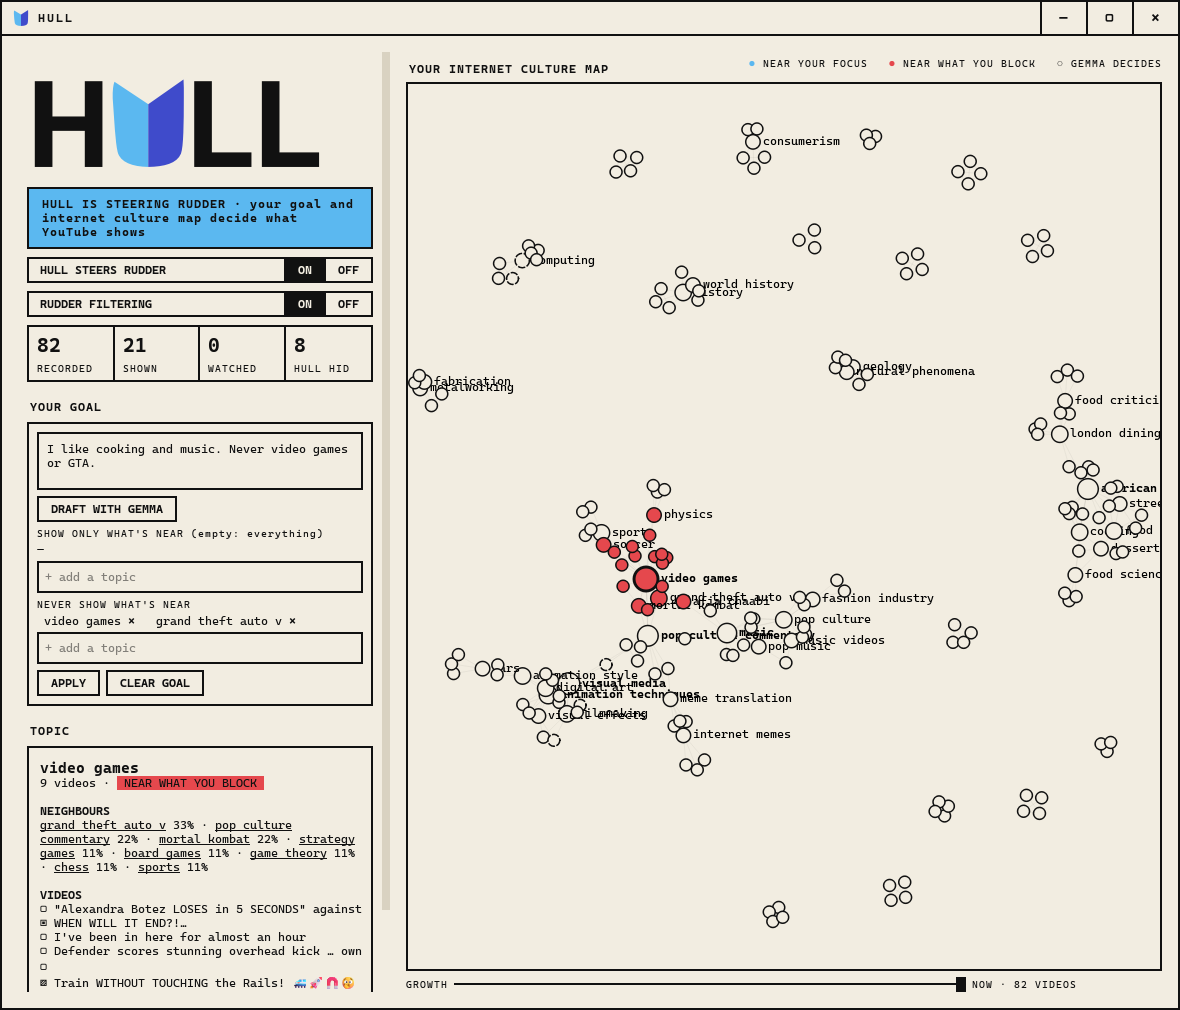
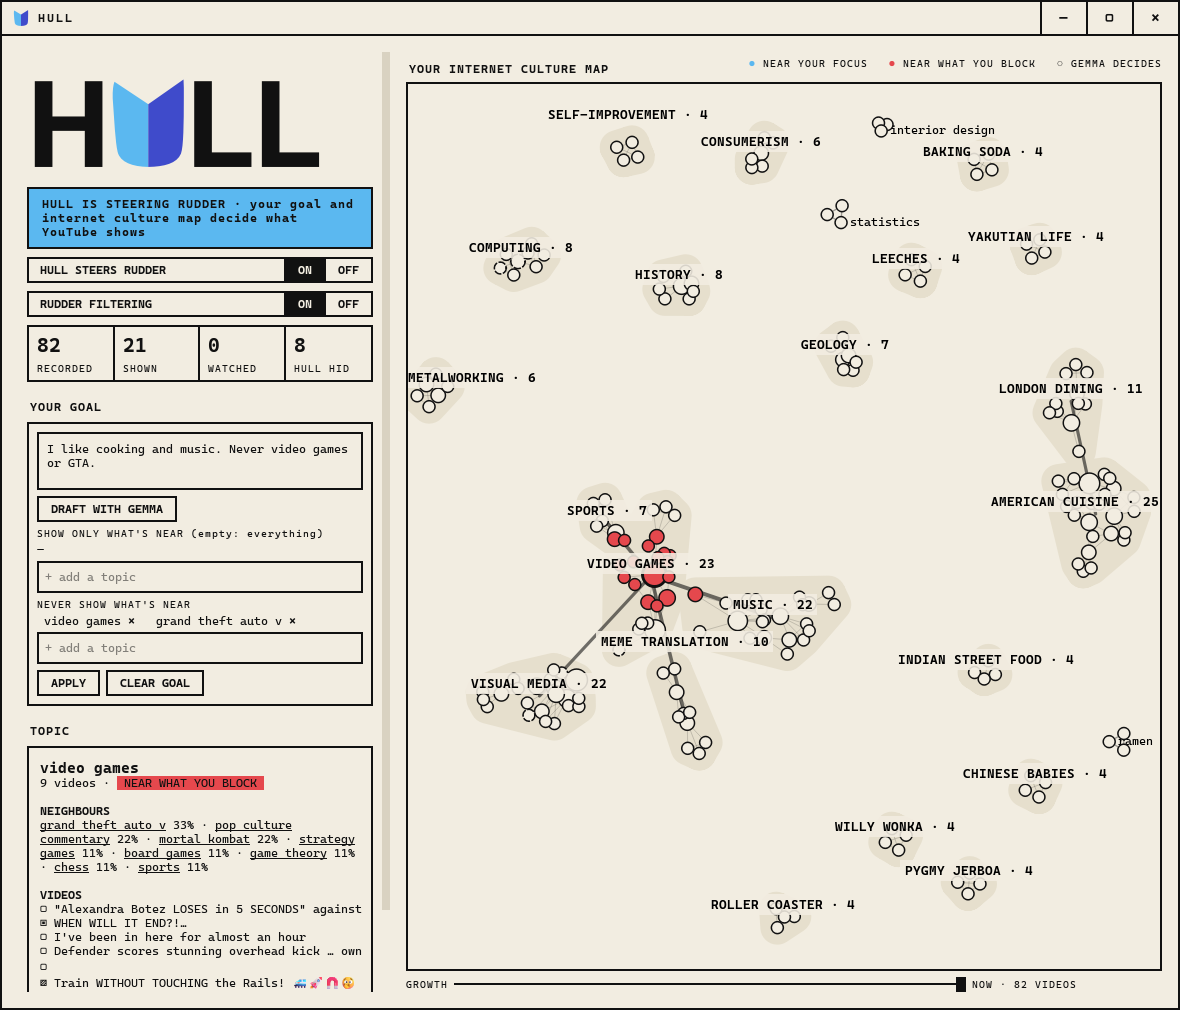
Map reads at every zoom: Louvain themes with shaded shapes and one name each while small on screen, names only where they have room, lines that keep their width, one line between closed themes and every line once a theme opens

diff --git a/hull/mapview.py b/hull/mapview.py
@@ -1,16 +1,30 @@
-"""The internet culture map: your internet culture graph drawn as a map. A dot per topic, as big as the number of videos you've seen on
-it; a line between topics that share videos. Where a topic sits comes from its meaning (its embedding, flattened to
-two dimensions) pulled together with its neighbours (a force layout), so related internet culture clusters on its own.
-Colour says what your goal does with it: blue near your focus, red near what you block, dashed where Gemma decides."""
+"""The internet culture map: your internet culture graph drawn as a map. A dot per topic, as big as the number of
+videos you've seen on it; a line between topics that share videos. Where a topic sits comes from its meaning (its
+embedding, flattened to two dimensions) pulled together with its neighbours and its community (a force layout).
+Colour says what your goal does with it: blue near your focus, red near what you block, dashed where Gemma decides.
+
+It reads at every zoom (apply_detail, on every zoom, pan and resize):
+  - Communities (topics more linked to each other than to the rest) get a shaded shape around them. While a community
+    is small on screen it shows one name, its most-seen topic, and its inside lines go faint; zoomed in, its topics'
+    names come out.
+  - A name is drawn only where it has room: names are placed most-seen first, and one that would touch a name
+    already placed waits until zooming spreads them apart. Every dot is always drawn, and hovering shows its name.
+  - Lines keep their width on screen. Between two communities that are both small on screen, all the lines become
+    one, thicker the more videos they share; once either opens, its own lines come back.
+"""
 import math
 
 import numpy as np
 from PySide6.QtCore import QPointF, QRectF, Qt, Signal
-from PySide6.QtGui import QBrush, QColor, QFont, QPainter, QPen
-from PySide6.QtWidgets import QGraphicsEllipseItem, QGraphicsItem, QGraphicsScene, QGraphicsSimpleTextItem, QGraphicsView
+from PySide6.QtGui import QBrush, QColor, QFont, QFontMetricsF, QPainter, QPainterPath, QPen, QPolygonF
+from PySide6.QtWidgets import (QGraphicsEllipseItem, QGraphicsItem, QGraphicsLineItem, QGraphicsPathItem, QGraphicsRectItem,
+                               QGraphicsScene, QGraphicsSimpleTextItem, QGraphicsView)
 
 PAPER, INK, FAINT, BLUE, RED = "#f2ede1", "#111111", "#d9d2c1", "#5BB8F0", "#E5484D"
+SHADE = "#e6dfcd"  # inside a community's shape
 MOST = 300  # topics drawn: the most-seen ones
+OPEN_PX = 260  # a community opens (its topics' names come out) once it's this big on screen
+GAP = 4  # px kept between names
 
 
 def flatten(vecs):
@@ -23,15 +37,70 @@ def flatten(vecs):
     return p / (np.abs(p).max(0) + 1e-9)
 
 
-def layout(start, edges, iters=120):
+def communities(n, edges, counts=None, resolution=1.0):
+    """the map's themes: groups of topics more linked to each other than to the rest (Louvain: move each topic to the
+    group that raises modularity most, then treat each group as one topic and repeat, so small groups merge into
+    themes like music, gaming, food). counts is unused, kept for callers."""
+    part = list(range(n))  # topic → its group
+    nodes, links = n, {}
+    for i, j, w in edges:
+        if i != j:
+            links[(i, j)] = links.get((i, j), 0) + w
+    while True:
+        nb = [dict() for _ in range(nodes)]
+        loops = [0.0] * nodes
+        for (i, j), w in links.items():
+            if i == j:
+                loops[i] += w
+            else:
+                nb[i][j] = nb[i].get(j, 0) + w
+                nb[j][i] = nb[j].get(i, 0) + w
+        k = [sum(d.values()) + 2 * loops[i] for i, d in enumerate(nb)]
+        m2 = sum(k)
+        if not m2:
+            break
+        comm, tot = list(range(nodes)), k[:]
+        moved = True
+        while moved:
+            moved = False
+            for i in sorted(range(nodes), key=lambda i: -k[i]):
+                c0 = comm[i]
+                tot[c0] -= k[i]
+                into = {}
+                for j, w in nb[i].items():
+                    into[comm[j]] = into.get(comm[j], 0) + w
+                best, gain = c0, into.get(c0, 0) - resolution * tot[c0] * k[i] / m2
+                for c, w in into.items():
+                    g = w - resolution * tot[c] * k[i] / m2
+                    if g > gain + 1e-12:
+                        best, gain = c, g
+                comm[i] = best
+                tot[best] += k[i]
+                moved |= best != c0
+        ids = {c: x for x, c in enumerate(dict.fromkeys(comm))}
+        if len(ids) == nodes:
+            break  # nothing merged: done
+        part = [ids[comm[p]] for p in part]
+        merged = {}
+        for (i, j), w in links.items():
+            a, b = sorted((ids[comm[i]], ids[comm[j]]))
+            merged[(a, b)] = merged.get((a, b), 0) + w
+        nodes, links = len(ids), merged
+    ids = {c: x for x, c in enumerate(dict.fromkeys(part))}
+    return [ids[c] for c in part]
+
+
+def layout(start, edges, iters=120, group=None):
     """force layout (Fruchterman-Reingold): every pair pushes apart, linked topics pull together by how many videos
-    they share. start: (n, 2) positions; edges: [(i, j, weight)]. ponytail: O(n²) per step, fine to a few hundred dots"""
+    they share, and each community draws in to its middle. start: (n, 2); edges: [(i, j, weight)]; group: community
+    per topic. ponytail: O(n²) per step, fine to a few hundred dots"""
     pos, n = start.astype(float).copy(), len(start)
     if n < 2:
         return pos
     k = 1.5 / math.sqrt(n)
     ij = np.array([(i, j) for i, j, _ in edges], int).reshape(-1, 2)
     w = np.array([w for *_, w in edges], float)
+    g = np.array(group if group is not None else range(n))
     t = 0.12
     for _ in range(iters):
         d = pos[:, None, :] - pos[None, :, :]
@@ -43,11 +112,33 @@ def layout(start, edges, iters=120):
             pull = e * (el / k) * np.log1p(w)[:, None]
             np.add.at(move, ij[:, 0], -pull)
             np.add.at(move, ij[:, 1], pull)
+        sums = np.zeros((g.max() + 1, 2))
+        np.add.at(sums, g, pos)
+        middle = sums / np.bincount(g)[:, None]
+        move -= (pos - middle[g]) * 0.6  # communities stay compact, so their shapes don't sprawl over each other
         move -= pos * 0.15  # gravity, so islands (topics with no shared videos yet) stay near
         step = np.linalg.norm(move, axis=1, keepdims=True) + 1e-9
         pos += move / step * np.minimum(step, t)
         t *= 0.97
     return pos
+
+
+def hull_of(points):
+    """convex hull (monotone chain), counter-clockwise"""
+    pts = sorted(map(tuple, points))
+    if len(pts) < 3:
+        return pts
+    cross = lambda o, a, b: (a[0] - o[0]) * (b[1] - o[1]) - (a[1] - o[1]) * (b[0] - o[0])
+    lower, upper = [], []
+    for p in pts:
+        while len(lower) >= 2 and cross(lower[-2], lower[-1], p) <= 0:
+            lower.pop()
+        lower.append(p)
+    for p in reversed(pts):
+        while len(upper) >= 2 and cross(upper[-2], upper[-1], p) <= 0:
+            upper.pop()
+        upper.append(p)
+    return lower[:-1] + upper[:-1]
 
 
 def read(graph, since=None):
@@ -66,6 +157,16 @@ def read(graph, since=None):
     return names, [r[1] for r in rows], edges
 
 
+def cosmetic(color, width, alpha=255):
+    c = QColor(color)
+    c.setAlpha(alpha)
+    pen = QPen(c, width)
+    pen.setCosmetic(True)  # the same width on screen at any zoom
+    pen.setCapStyle(Qt.PenCapStyle.RoundCap)
+    pen.setJoinStyle(Qt.PenJoinStyle.RoundJoin)
+    return pen
+
+
 class InternetCultureMap(QGraphicsView):
     picked = Signal(str)  # a topic was clicked
 
@@ -81,6 +182,7 @@ class InternetCultureMap(QGraphicsView):
         self.setStyleSheet(f"border: 2px solid {INK};")
         self.positions = {}  # topic → (x, y), kept between redraws so the map doesn't jump
         self.key, self.fitted, self.selected = None, False, None
+        self.parts = None  # what apply_detail shows and hides
 
     def draw(self, internet_culture, since=None):
         """(re)draw from the internet culture stage's graph; marks: topic → "focus" | "block" | "ask" | None"""
@@ -92,10 +194,12 @@ class InternetCultureMap(QGraphicsView):
         self.key = key
         scene = self.scene()
         scene.clear()
+        self.parts = None
         if not names:
             t = scene.addSimpleText("No internet culture yet: Hull draws your map as Gemma tags the videos Rudder sees.")
             t.setFont(QFont("Cascadia Mono", 11))
             return
+        group = communities(len(names), edges, counts)
         # start each topic where it was, else beside its neighbours, else where its meaning puts it
         flat = flatten(np.array([internet_culture.graph.vecs[internet_culture.graph.index[n]] for n in names]))
         start = np.zeros((len(names), 2))
@@ -105,41 +209,165 @@ class InternetCultureMap(QGraphicsView):
             else:
                 near = [self.positions[names[j if i == k else k]] for k, j, _ in edges if i in (k, j) and names[j if i == k else k] in self.positions]
                 start[i] = np.mean(near, 0) + np.random.default_rng(i).normal(0, 0.05, 2) if near else flat[i]
-        pos = layout(start, edges, iters=40 if self.positions else 160)
+        pos = layout(start, edges, iters=40 if self.positions else 160, group=group)
         self.positions.update({n: tuple(p) for n, p in zip(names, pos)})
 
-        scale, most = 900, max(counts)
-        xy = pos * scale
+        xy, most = pos * 900, max(counts)
+        members = {}
+        for i, c in enumerate(group):
+            members.setdefault(c, []).append(i)
+        big = {c for c, ms in members.items() if len(ms) >= 4}  # communities that get a shape and a name
+
+        # community shapes: the hull, filled, with a wide round outline in the same shade (padding that stays the
+        # same on screen)
+        for c in big:
+            pts = hull_of(xy[members[c]])
+            path = QPainterPath()
+            path.addPolygon(QPolygonF([QPointF(*p) for p in pts]))
+            path.closeSubpath()
+            shape = QGraphicsPathItem(path)
+            shape.setBrush(QBrush(QColor(SHADE)))
+            shape.setPen(cosmetic(SHADE, 34))
+            shape.setZValue(-3)
+            scene.addItem(shape)
+
+        # lines: each one, and one per pair of communities for when they're small on screen
+        inside, across, between = {}, [], {}
         for i, j, w in edges:
-            pen = QPen(QColor(17, 17, 17, min(200, 40 + 30 * w)), 1 + math.log1p(w) * 0.6)
-            scene.addLine(*xy[i], *xy[j], pen)
+            line = QGraphicsLineItem(*xy[i], *xy[j])
+            line.setZValue(-1)
+            scene.addItem(line)
+            line.weight = w
+            if group[i] == group[j]:
+                inside.setdefault(group[i], []).append(line)
+            else:
+                across.append((line, group[i], group[j]))
+                key2 = tuple(sorted((group[i], group[j])))
+                between[key2] = between.get(key2, 0) + w
+        middles = {c: xy[ms].mean(0) for c, ms in members.items()}
+        bundles = []
+        for (a, b), w in between.items():
+            line = QGraphicsLineItem(*middles[a], *middles[b])
+            line.setPen(cosmetic(INK, 1.5 + 1.5 * math.log1p(w), 150))
+            line.setZValue(-2)
+            scene.addItem(line)
+            bundles.append((line, a, b))
+
+        # dots, always drawn, and a name for each (shown by apply_detail where it fits)
+        names_of, font = {}, QFont("Cascadia Mono", 9)
         for i, (name, c) in enumerate(zip(names, counts)):
             r = 3 + 9 * math.sqrt(c / most)
             mark = marks.get(name)
             dot = Dot(name, QRectF(-r, -r, 2 * r, 2 * r), self.picked)
             dot.setPos(QPointF(*xy[i]))
-            fill = {"focus": BLUE, "block": RED}.get(mark, PAPER)
             pen = QPen(QColor(INK), 3 if name == self.selected else 1.5)
             if mark == "ask":
                 pen.setStyle(Qt.PenStyle.DashLine)
             dot.setPen(pen)
-            dot.setBrush(QBrush(QColor(fill)))
+            dot.setBrush(QBrush(QColor({"focus": BLUE, "block": RED}.get(mark, PAPER))))
             dot.setToolTip(f"{name}\n{c} videos" + (f"\n{mark}" if mark else ""))
             dot.setFlag(QGraphicsItem.GraphicsItemFlag.ItemIgnoresTransformations)  # pins: same size at any zoom
             dot.setZValue(1)
             scene.addItem(dot)
-            if (i < 40 and c > 1) or i < 8 or name == self.selected:  # names on the most-seen; the rest on hover
-                t = QGraphicsSimpleTextItem(name, dot)
-                t.setFont(QFont("Cascadia Mono", 9, QFont.Weight.Bold if c > most / 3 else QFont.Weight.Normal))
-                t.setPos(r + 3, -8)
-        scene.setSceneRect(QRectF(*xy.min(0), *(xy.max(0) - xy.min(0))).adjusted(-60, -40, 160, 40))  # room for names
+            t = QGraphicsSimpleTextItem(name, dot)
+            t.setFont(QFont("Cascadia Mono", 9, QFont.Weight.Bold if c > most / 3 or name == self.selected else QFont.Weight.Normal))
+            t.setPos(r + 3, -8)
+            t.setVisible(False)
+            names_of[i] = (t, r)
+
+        # community names, centred on each shape
+        titles, bold = {}, QFont("Cascadia Mono", 10, QFont.Weight.Bold)
+        for c in big:
+            top = max(members[c], key=lambda i: counts[i])
+            box = QFontMetricsF(bold).boundingRect(f"{names[top].upper()} · {len(members[c])}")
+            t = QGraphicsRectItem(box.adjusted(-5, -3, 5, 3))  # a paper plate, so the name reads over its dots
+            t.setBrush(QBrush(QColor(242, 237, 225, 225)))
+            t.setPen(QPen(Qt.PenStyle.NoPen))
+            label = QGraphicsSimpleTextItem(f"{names[top].upper()} · {len(members[c])}", t)
+            label.setFont(bold)
+            label.setPos(box.x(), box.y())
+            t.setFlag(QGraphicsItem.GraphicsItemFlag.ItemIgnoresTransformations)
+            t.setPos(QPointF(*middles[c]))
+            t.setZValue(2)
+            t.setVisible(False)
+            scene.addItem(t)
+            titles[c] = (t, box.translated(-box.x(), -box.y()))
+
+        span = {c: float(np.ptp(xy[ms], axis=0).max()) if len(ms) > 1 else 0.0 for c, ms in members.items()}
+        lows = {c: xy[ms].min(0) for c, ms in members.items()}
+        highs = {c: xy[ms].max(0) for c, ms in members.items()}
+        self.parts = dict(names=names, counts=counts, group=group, xy=xy, middles=middles, lows=lows, highs=highs, big=big, span=span, inside=inside, across=across,
+                          bundles=bundles, names_of=names_of, titles=titles, font=QFontMetricsF(font))
+        scene.setSceneRect(QRectF(*xy.min(0), *(xy.max(0) - xy.min(0))).adjusted(-80, -60, 200, 60))  # room for names
         if not self.fitted:
             self.fitInView(scene.sceneRect(), Qt.AspectRatioMode.KeepAspectRatio)
             self.fitted = True
+        self.apply_detail()
+
+    def apply_detail(self):
+        """show what reads at this zoom: open or closed communities, their names or their topics' names, single lines
+        or bundles, and only names that have room"""
+        p = self.parts
+        if not p:
+            return
+        zoom = self.transform().m11()
+        closed = {c for c in p["big"] if p["span"][c] * zoom < OPEN_PX}
+        for c, lines in p["inside"].items():
+            for line in lines:
+                line.setPen(cosmetic(INK, 1 if c in closed else 1 + 0.5 * math.log1p(line.weight), 45 if c in closed else min(190, 70 + 30 * line.weight)))
+        for line, a, b in p["across"]:
+            line.setVisible(a not in closed or b not in closed)  # an open community shows its own lines
+            line.setPen(cosmetic(INK, 1 + 0.5 * math.log1p(line.weight), min(170, 50 + 30 * line.weight)))
+        for line, a, b in p["bundles"]:
+            line.setVisible(a in closed and b in closed)  # between two closed communities: one line
+
+        # names, most important first; each must keep GAP px from every name already placed
+        size = {c: p["group"].count(c) for c in closed}
+        want = [(1e9 + size[c], "title", c) for c in closed]  # bigger themes name themselves first
+        want += [(p["counts"][i] + (1e8 if p["names"][i] == self.selected else 0), "name", i)
+                 for i in range(len(p["names"])) if p["group"][i] not in closed]
+        placed, view = [], self.viewport().rect()
+        for t, _ in p["names_of"].values():
+            t.setVisible(False)
+        for t, _ in p["titles"].values():
+            t.setVisible(False)
+        for _, kind, k in sorted(want, reverse=True):
+            if kind == "title":
+                t, box = p["titles"][k]
+                lo, hi = self.mapFromScene(QPointF(*p["lows"][k])), self.mapFromScene(QPointF(*p["highs"][k]))
+                mid, w, h = self.mapFromScene(QPointF(*p["middles"][k])), box.width(), box.height()
+                # on its middle, else just above its shape, else just below; nudged inside the view
+                spots = [QRectF(mid.x() - w / 2, y, w, h) for y in (mid.y() - h / 2, lo.y() - h - 8, hi.y() + 8)]
+                spots = [s.translated(min(0, view.right() - s.right()) - min(0, s.left() - view.left()),
+                                      min(0, view.bottom() - s.bottom()) - min(0, s.top() - view.top())) for s in spots]
+                rect = next((s for s in spots if not any(s.adjusted(-GAP, -GAP, GAP, GAP).intersects(o) for o in placed)), None)
+                if rect is None:
+                    continue
+                t.setPos(self.mapToScene(int(rect.x()), int(rect.y())))
+            else:
+                t, r = p["names_of"][k]
+                at = self.mapFromScene(QPointF(*p["xy"][k]))
+                w = p["font"].horizontalAdvance(p["names"][k])
+                rect = QRectF(at.x() + r + 3, at.y() - 8, w, 14)
+                if not QRectF(view).contains(rect):  # cut off at the edge: wait until it's on screen
+                    continue
+                if any(rect.adjusted(-GAP, -GAP, GAP, GAP).intersects(o) for o in placed):
+                    continue
+            placed.append(rect)
+            t.setVisible(True)
 
     def wheelEvent(self, e):
         f = 1.15 if e.angleDelta().y() > 0 else 1 / 1.15
         self.scale(f, f)
+        self.apply_detail()
+
+    def scrollContentsBy(self, dx, dy):
+        super().scrollContentsBy(dx, dy)
+        self.apply_detail()
+
+    def resizeEvent(self, e):
+        super().resizeEvent(e)
+        self.apply_detail()
 
 
 class Dot(QGraphicsEllipseItem):

diff --git a/tests/test_hull.py b/tests/test_hull.py
@@ -417,6 +417,15 @@ class TestCaptions(unittest.TestCase):
 
 
 class TestMapLayout(unittest.TestCase):
+    def test_communities_split_where_links_thin(self):
+        from hull.mapview import communities
+        # two tight groups of four, joined by one thin link
+        edges = [(a, b, 3) for g in ((0, 1, 2, 3), (4, 5, 6, 7)) for a in g for b in g if a < b] + [(3, 4, 1)]
+        g = communities(8, edges, [3] * 8)
+        self.assertEqual(len({g[i] for i in range(4)}), 1)
+        self.assertEqual(len({g[i] for i in range(4, 8)}), 1)
+        self.assertNotEqual(g[0], g[4])
+
     def test_linked_topics_end_up_closer(self):
         from hull.mapview import layout
         start = np.random.default_rng(1).normal(0, 0.5, (6, 2))

diff --git a/docs/how-it-works.md b/docs/how-it-works.md
@@ -52,6 +52,8 @@ Hull opens its window, loads the models, joins Rudder's pipeline right after Rud
 - **Your internet culture map.**
   - Every topic is a pin, sized by how many videos you've seen on it, and topics that share videos are joined by lines.
   - Pins sit by meaning and by neighbours, so your internet culture forms clusters.
+  - Themes (communities found with Louvain: music, gaming, cooking…) get a shaded shape. Zoomed out, each theme shows one name, its most-seen topic and how many topics it holds, and the lines between two themes become one thick line. Zoom in and a theme opens: its topics' names and every line come back.
+  - A name is drawn only where it has room: the most-seen go first, and a name that would touch another waits until you zoom in. Every dot is always drawn, and hovering one shows its name.
   - Blue is near your focus, red near what you block, and dashed where Gemma still decides.
   - Wheel to zoom, drag to move, click a pin for its videos and neighbours.
   - The *growth* slider replays how the map grew.
